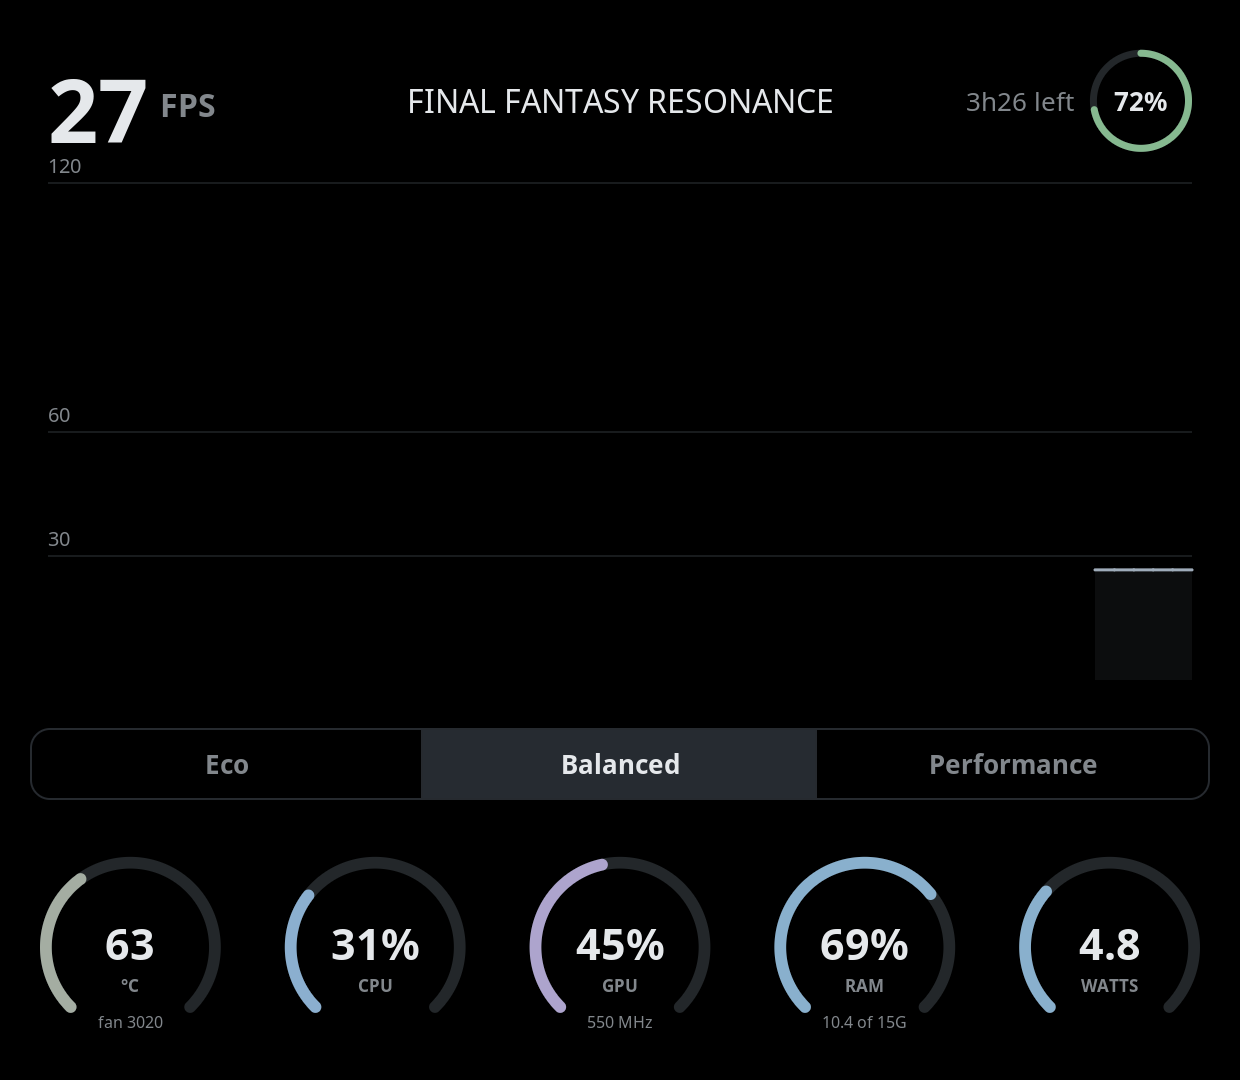
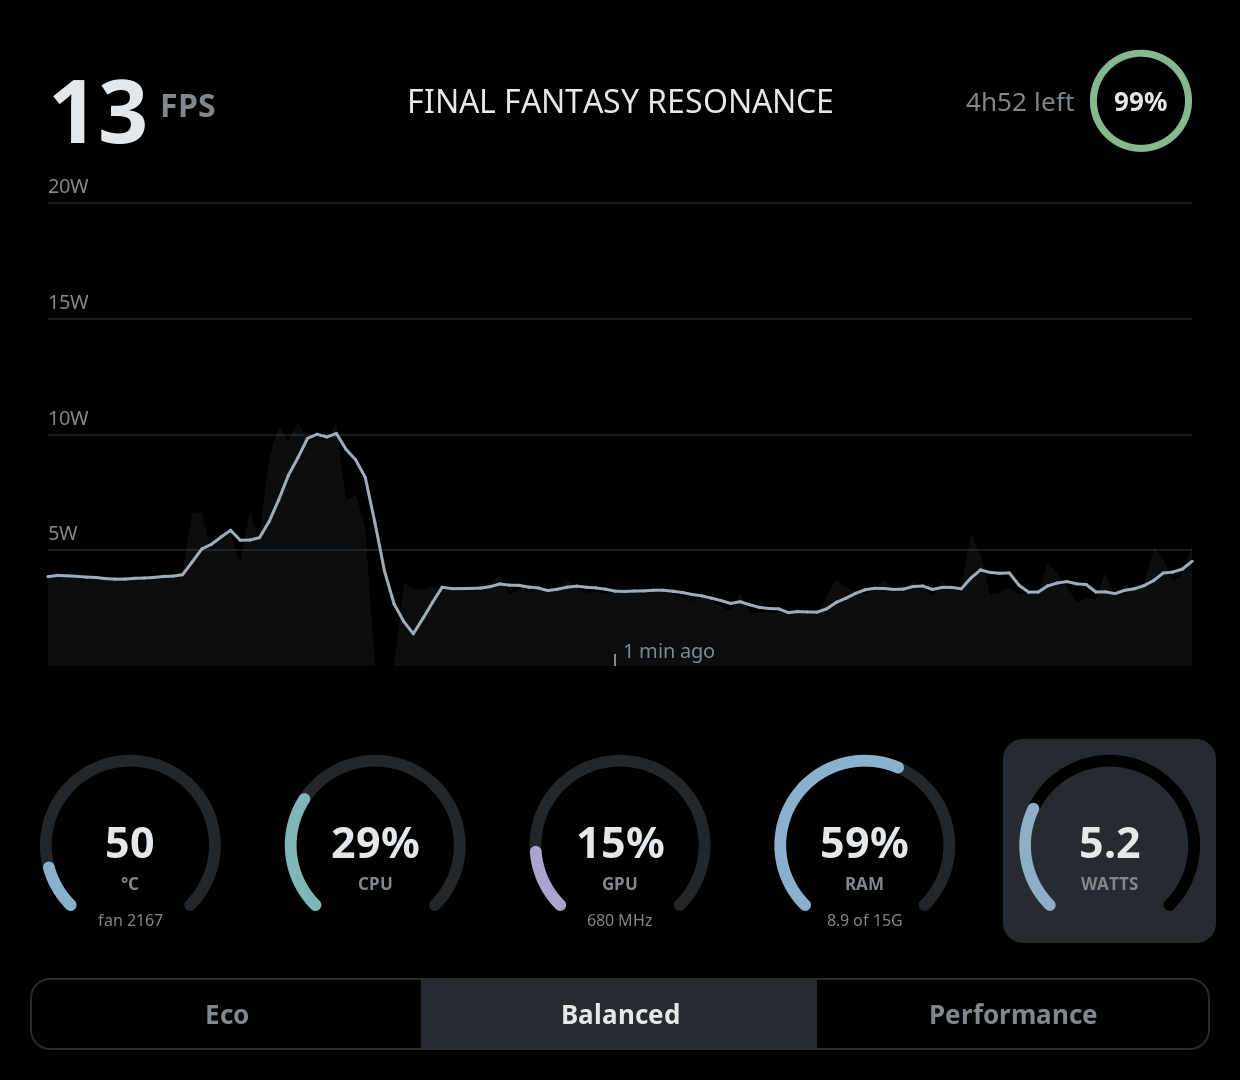
README: describe the current layout, graphs and colours; new screenshot

diff --git a/README.md b/README.md
@@ -4,26 +4,33 @@ A quiet performance dashboard for the bottom screen of the AYN Thor running
 [Armada OS](https://armadaos.dev/) — the Linux stand-in for the stock Android
 overlay.
 
-<img src="docs/screenshot.png" width="620" alt="thor-hud on the Thor's bottom screen: FPS, game title and battery across the top, a one-minute FPS graph, the profile buttons, and temperature, CPU, GPU, RAM and watts meters">
+<img src="docs/screenshot.png" width="620" alt="thor-hud on the Thor's bottom screen: FPS, game title and battery across the top; a two-minute graph of power draw; temperature, CPU, GPU, RAM and watts meters with the watts meter highlighted; and the Eco, Balanced and Performance buttons along the bottom">
 
-- **Header:** FPS (from gamescope's stats pipe), the focused game's title, battery % and time left/to full
-- **Meters:** CPU %, GPU % (DRM fdinfo) and clock, watts (USB in or battery draw), hottest CPU/GPU temperature + fan RPM, RAM
-- **Profile:** Eco / Balanced / Performance via Armada's `org.armada.Power` D-Bus service — no root needed.
-  Each profile carries a CPU governor, which the HUD reasserts whenever the profile changes (including from Steam):
-  Eco → conservative, Balanced → schedutil, Performance → performance
-- **Graphs:** tap any stat — the FPS readout, the battery corner, or a gauge — to graph it; tap it again to
-  leave the middle empty. The choice is remembered across restarts. FPS, CPU, GPU and
-  watts show the last 2 minutes, temperature and RAM 5, battery 2 hours; noisy stats are drawn as a short
-  moving average over a faint fill of the raw readings, with a tick marking the midpoint of the time axis.
-- **Brightness swipes:** drag up/down anywhere — left half for the bottom screen, right half for the top. Any
-  touch that moves more than a few pixels is a swipe, even one starting on a button; only taps that stay put
-  press buttons or pick graphs. It goes through logind's `Session.SetBrightness`. Armada re-applies its own saved bottom brightness from
-  `/etc/armada/bottom-screen-brightness` every 2 s, so bottom swipes only stick once that file is removed
-  (`sudo mv /etc/armada/bottom-screen-brightness /etc/armada/bottom-screen-brightness.bak`); the HUD then keeps
-  its own setting in `~/.local/state/thor-hud/bottom-brightness`.
+From top to bottom:
 
-Colours are muted and equal in lightness; only temperature, battery draw and RAM (blue → amber → red)
-change colour with their value; the battery ring is blue when full, then green (≥40%), yellow (≥15%), red (≥5%), and bright purple.
+- **Header:** FPS (from gamescope's stats pipe; 0 when the screen is static), the focused game's title, and a
+  battery ring with time left or time to full.
+- **Graph:** the history of whichever stat you tap — the FPS readout, the battery corner, or any meter. FPS,
+  CPU, GPU and watts show the last 2 minutes, temperature and RAM 5, battery 2 hours, with reference lines and
+  a tick at the midpoint of the time axis. Noisy stats are drawn as a short moving average over a faint fill
+  of the raw readings. The graphed stat gets a subtle highlight; tap it again for an empty, quiet middle. The
+  choice is remembered across restarts.
+- **Meters:** hottest CPU/GPU temperature with fan speed, CPU %, GPU % (from DRM fdinfo) with its clock, RAM,
+  and watts (battery draw, or USB input while charging).
+- **Profile:** Eco / Balanced / Performance through Armada's `org.armada.Power` D-Bus service — no root needed.
+  Each profile carries a CPU governor, which the HUD reasserts whenever the profile changes (including from
+  Steam): Eco → conservative, Balanced → schedutil, Performance → performance.
+
+**Brightness swipes:** drag up or down anywhere — the left half sets the bottom screen's brightness, the right
+half the top's. Any touch that moves more than a few pixels is a swipe, even one starting on a button; only
+taps that stay put press buttons or pick graphs. This goes through logind's `Session.SetBrightness`. Armada
+re-applies its own saved bottom-screen brightness every 2 s, so bottom swipes only stick once that setting is
+moved aside (`sudo mv /etc/armada/bottom-screen-brightness /etc/armada/bottom-screen-brightness.bak`); the HUD
+then keeps its own in `~/.local/state/thor-hud/bottom-brightness`.
+
+**Colours** are muted, equal in lightness and drawn on true black for the OLED panel. CPU, GPU and RAM share a
+teal / violet / blue family. Temperature, battery draw and RAM shift from blue through amber to red as they
+climb; the battery ring is blue when full, then green (≥40%), yellow (≥15%), red (≥5%) and bright purple.
 
 ## Install
 
@@ -45,7 +52,8 @@ brings it back.
 A plain Wayland client in C: it rasterises its own pixels (distance-field arcs,
 lines and rounded boxes; FreeType glyphs cached once) into shared-memory
 buffers, sends only the regions that changed, and handles touch itself. GLib
-provides the event loop and D-Bus. It uses about 1.3% of one little core.
+provides the event loop and D-Bus. It runs pinned to the little cores and uses
+around 1–2% of one of them.
 
 Armada's image has no compiler, so build in a Fedora toolbox (same Fedora
 release as Armada, so the binary runs on the host):
